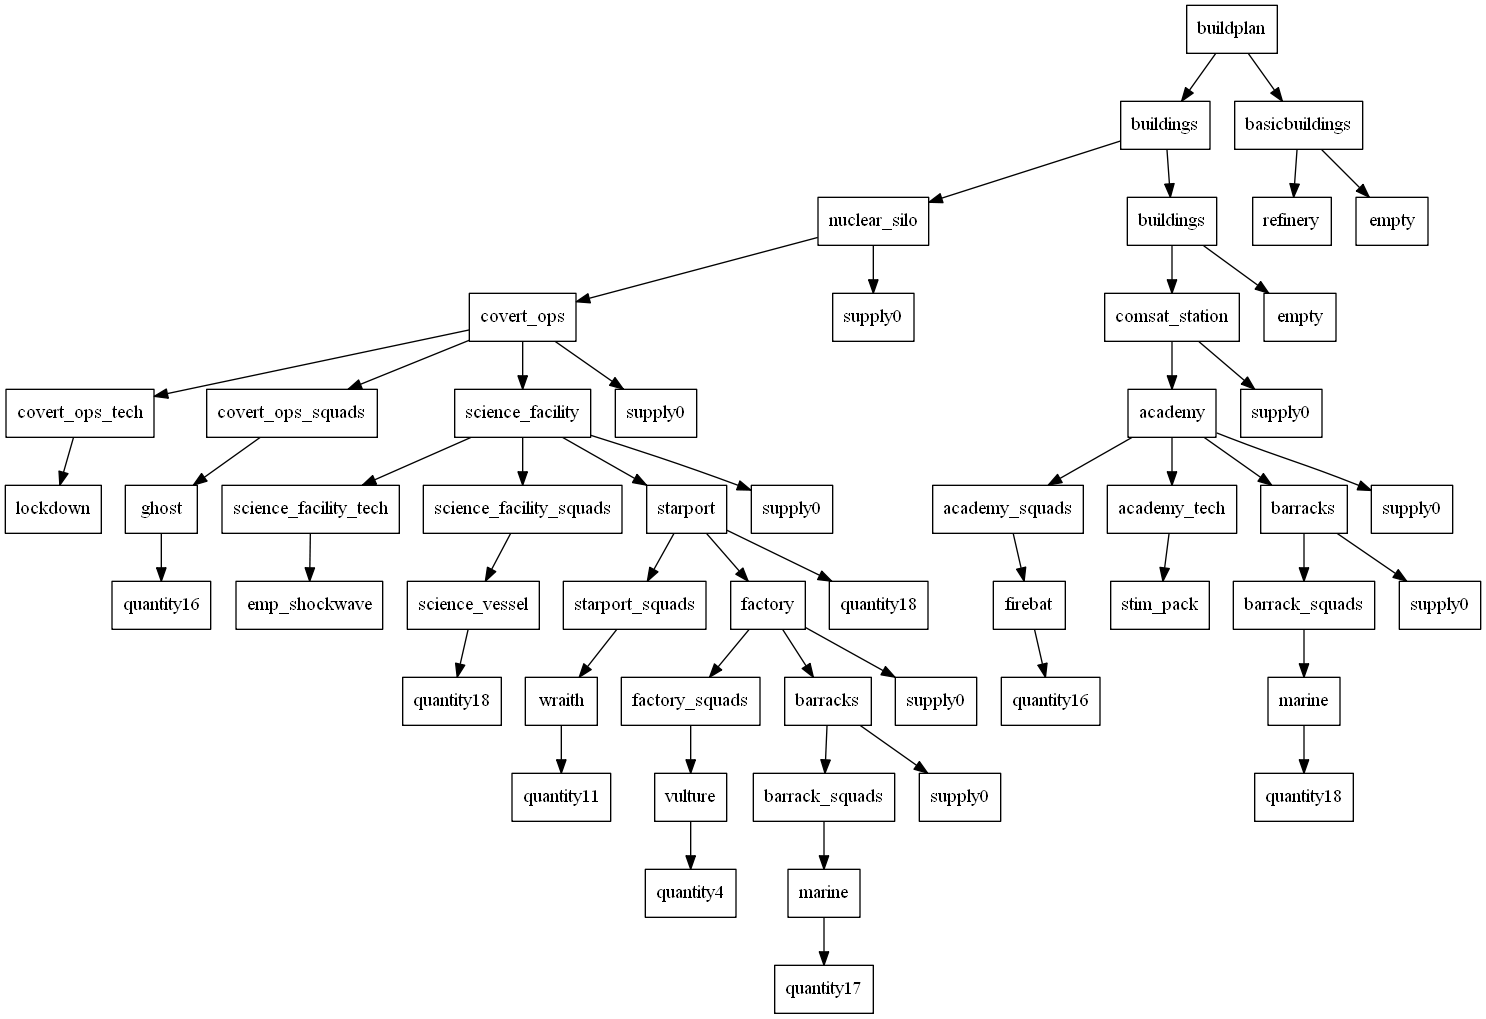
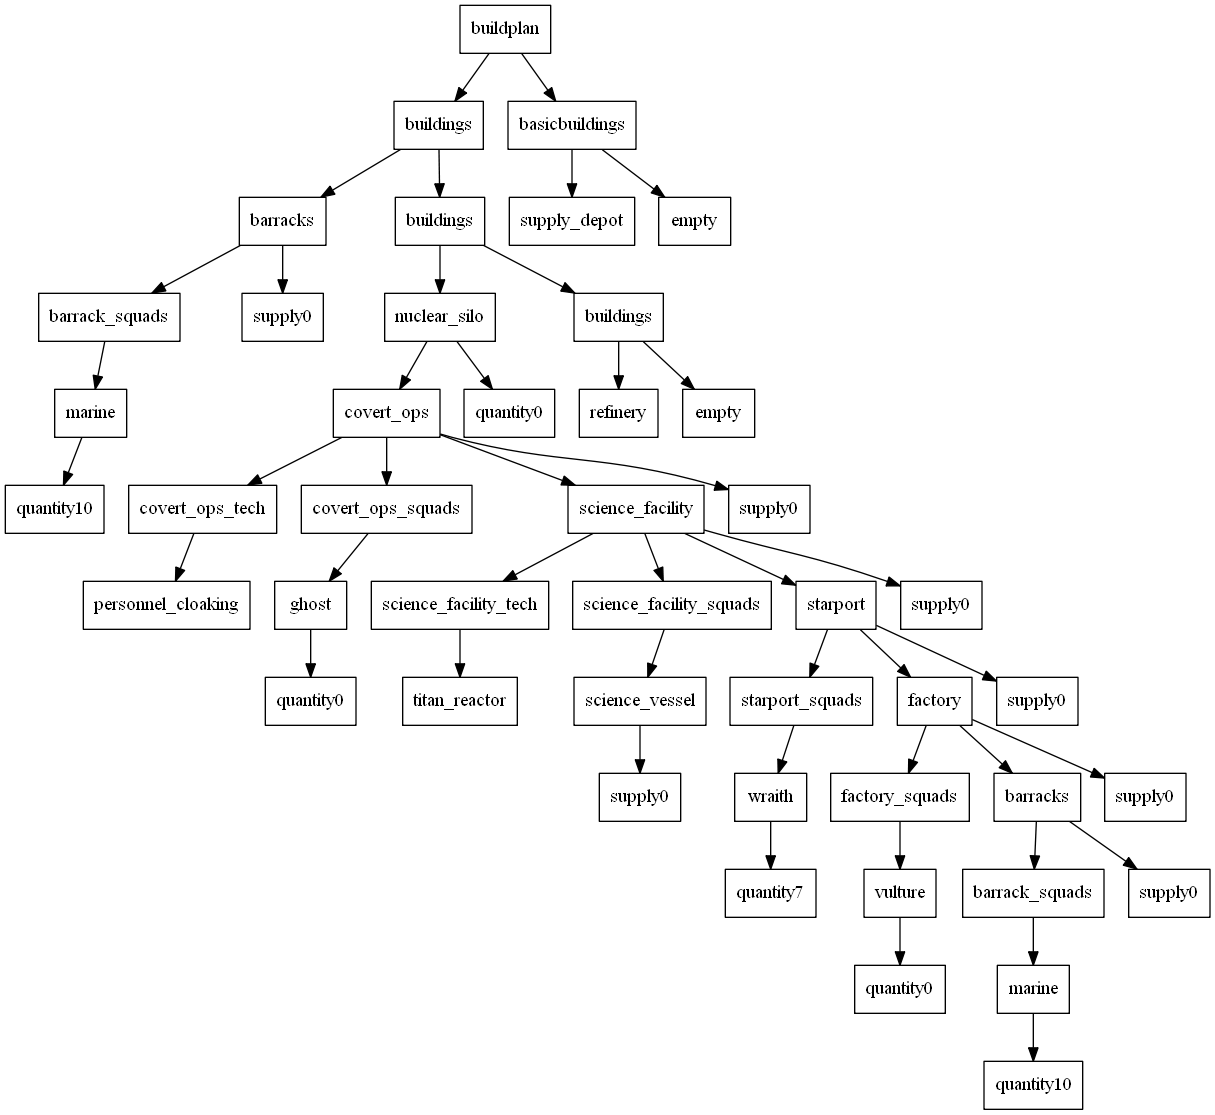
fixes
never ending

diff --git a/GPBot/src/bot/Bot.java b/GPBot/src/bot/Bot.java
@@ -41,6 +41,7 @@ public class Bot extends DefaultBWListener implements Runnable {
 	private int counter;// adds a little delay in the tree evaluation
 	private int counter2;
 	private int counter3;
+	private int counter4;
 	private boolean ref_exists = false;
 
 	private PointSystem ps;
@@ -54,6 +55,7 @@ public class Bot extends DefaultBWListener implements Runnable {
 		counter = 0;
 		counter2 = 0;
 		counter3 = 0;
+		counter4 = 0;
 		ps = new PointSystem();
 		ref_exists = false;
 	}
@@ -104,6 +106,8 @@ public class Bot extends DefaultBWListener implements Runnable {
 		super.onUnitComplete(arg0);
 		go_construct = false;
 		// if ((arg0.getType().isBuilding()) && (arg0.getPlayer().equals(self)))
+		if(arg0.getType()==UnitType.Terran_Refinery) ref_exists = true;
+
 		addList(arg0);
 	}
 
@@ -118,6 +122,7 @@ public class Bot extends DefaultBWListener implements Runnable {
 		counter = 0;
 		counter2 = 0;
 		counter3 = 0;
+		counter4 = 0;
 		ref_exists = false;
 		try {
 			exe = this.individualsQueue.take();
@@ -143,9 +148,15 @@ public class Bot extends DefaultBWListener implements Runnable {
 					exe.getInd(), exe.getStbot());
 			System.out.println("---The Build Plan size is AFTER: " + exe.getInput().bp.size());
 			drawTree(exe.getInd().trees[0]);
-			this.workers = exe.getInput().workers;
-			this.squads = exe.getInput().squads;
-			this.buildings = exe.getInput().buildings;
+			
+			this.workers = new ArrayList<Unit>();
+			this.squads = new ArrayList<Unit>();
+			this.buildings = new ArrayList<Unit>();
+			exe.getInput().workers = this.workers;
+			exe.getInput().squads = this.squads;
+			exe.getInput().buildings = this.buildings;
+
+			
 		} else {
 			System.err.println("nexe nulo!!!");
 		}
@@ -165,16 +176,22 @@ public class Bot extends DefaultBWListener implements Runnable {
 											// add units on each loop, delaying
 											// it can be a solution
 				executeSquadActions();// squad actions (micro)
-
+				switchConstruct();
 			}
 		} catch (Exception e) {
 			e.printStackTrace(System.err);
 		}
 	}
+	
+	public void switchConstruct(){
+		if (counter4 > 400) {
+			go_construct = false;//in case something when wrong
+			counter4 = 0;}
+		counter4++;
+	}
 
 	public void executeBuildPlan() {
 		if (counter3 > 100) {
-			go_construct = false;
 			buildPlan();
 			counter3 = 0;
 		}
@@ -217,6 +234,7 @@ public class Bot extends DefaultBWListener implements Runnable {
 						if ((int) exe.getInput().bp.peek().getY() <= 0)
 							exe.getInput().bp.pop();
 					}
+					counter4 = 0;
 				}
 			}
 
@@ -301,16 +319,17 @@ public class Bot extends DefaultBWListener implements Runnable {
 
 	public void buildBuilding(UnitType building) {
 		int i = 0;
+		TilePosition tile = null;
 		while ((workers.get(i).isGatheringGas() || workers.get(i).isConstructing()) && (i < workers.size()))
 			i++;
-		TilePosition tile = null;
+		
 		int tries=0;
 		while ((tile == null) && (tries<10)) {
 			tile = getBuildTile(workers.get(i), building, workers.get(i).getTilePosition());
 			tries++;
 		}
 		if (tile != null) {
-			if ((workers.get(i).canBuild(building, tile)) & !(workers.get(i).isConstructing())) {
+			if ((workers.get(i).canBuild(building, tile)) & (!workers.get(i).isConstructing())) {
 				workers.get(i).build(building, tile);
 				planToString();
 				ps.inc_points(1, 0);
@@ -388,7 +407,7 @@ public class Bot extends DefaultBWListener implements Runnable {
 
 	public TilePosition getBuildTile(Unit builder, UnitType buildingType, TilePosition aroundTile) {
 		TilePosition ret = null;
-		int maxDist = 3;
+		int maxDist = 2;
 		int stopDist = 40;
 
 		if (buildingType.isRefinery() && (!ref_exists)) {
@@ -396,7 +415,6 @@ public class Bot extends DefaultBWListener implements Runnable {
 				if ((n.getType() == UnitType.Resource_Vespene_Geyser)
 						&& (Math.abs(n.getTilePosition().getX() - aroundTile.getX()) < stopDist)
 						&& (Math.abs(n.getTilePosition().getY() - aroundTile.getY()) < stopDist)) {
-					ref_exists = true;
 					return n.getTilePosition();
 				}
 			}
@@ -404,7 +422,7 @@ public class Bot extends DefaultBWListener implements Runnable {
 
 		while ((maxDist < stopDist) && (ret == null)) {
 			for (int i = aroundTile.getX() - maxDist; i <= aroundTile.getX() + maxDist; i++) {
-				for (int j = aroundTile.getY() - maxDist; j <= aroundTile.getY() + maxDist; j++) {
+				for (int j =  aroundTile.getY() - maxDist; j <= aroundTile.getY() + maxDist; j++) {
 					if (game.canBuildHere(new TilePosition(i, j), buildingType, builder, false)) {
 						// units that are blocking the tile
 						boolean unitsInWay = false;
